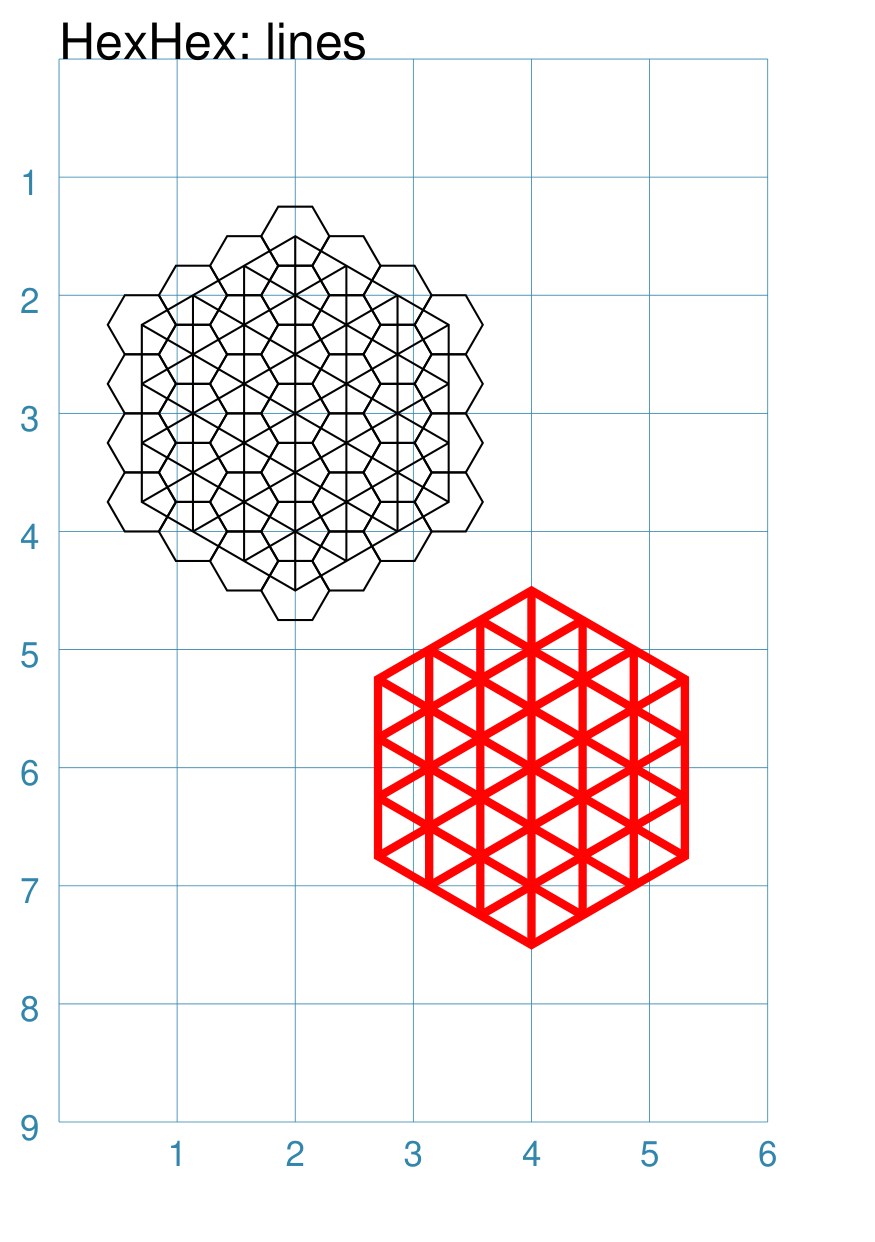
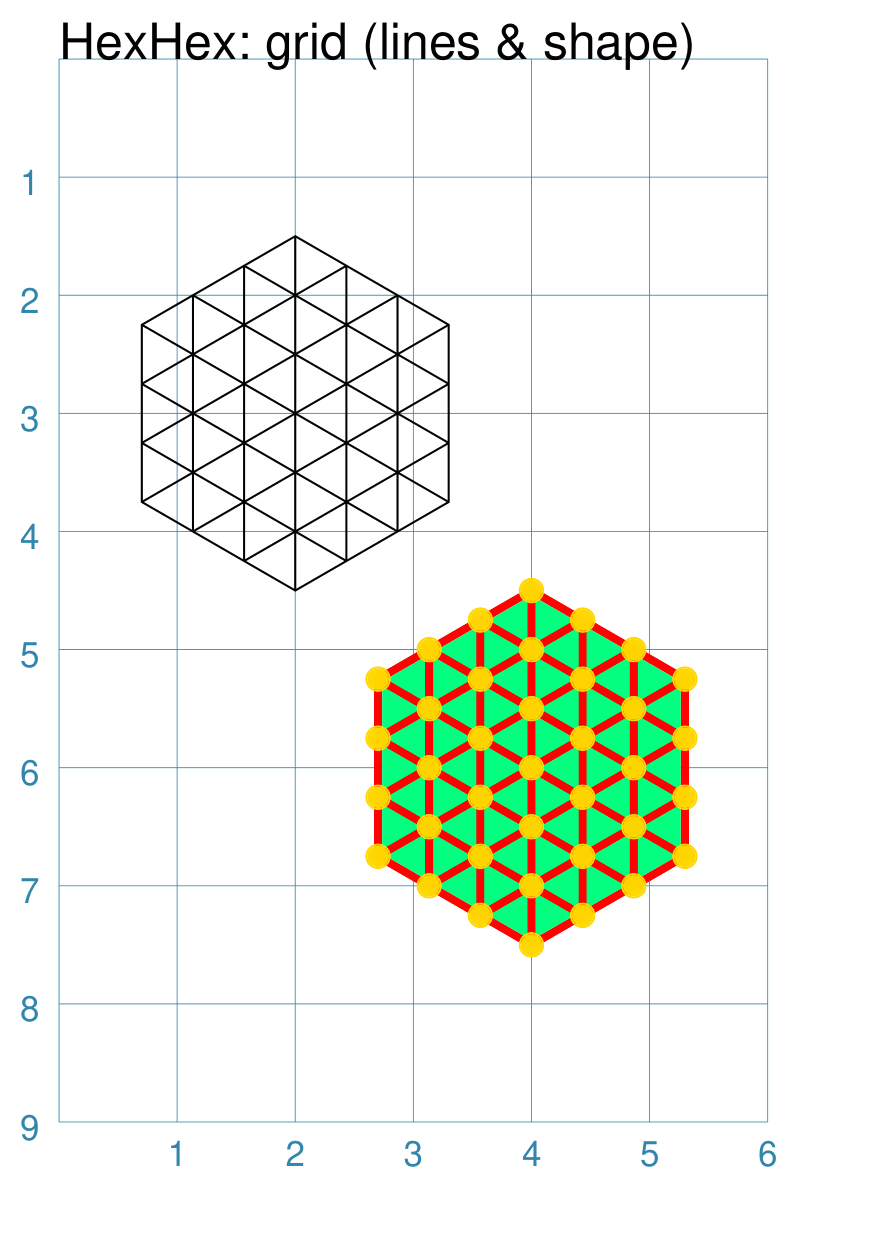
WIP on examples for HexHex

diff --git a/protograf/layouts.py b/protograf/layouts.py
@@ -304,23 +304,32 @@ class HexHexShape(BaseShape):
                 shapes = shapes_dict.get(ring)
                 if not shapes:
                     continue  # might not be shapes defined for a given ring
+                # check no. of shapes vs size of ring
+                if ring == 0 and len(shapes) != 1:
+                    feedback("There must only be one HexHex shape for ring#0", True)
+                if ring != 0 and len(shapes) != ring * 6:
+                    feedback(
+                        "There is a mismatch between the number of HexHex shapes"
+                        f" and the ring locations ({ring * 6}) for ring#{ring}",
+                        True,
+                    )
                 for key, the_shape in enumerate(shapes):
-                    if key > ring * 6:
-                        feedback(f"Too many HexHex shapes set ring#{ring}", True)
-                    loc = location_dict[(ring, key)]
-                    cx = location.centre.x + globals.margins.left_u
-                    cy = location.centre.y + globals.margins.top_u
+                    loc = location_dict.get((ring, key + 1))
+                    # print(f'/// {ring=} {key+1=} {loc.id=} {the_shape=}')
+                    cx = loc.centre.x + globals.margins.left_u
+                    cy = loc.centre.y + globals.margins.top_u
                     hex_id = key
                     if self.show_counter:
                         hex_id = loc.counter
                     if self.show_sequence:
                         hex_id = loc.id
-                    the_shape.draw(
-                        _abs_cx=cx,
-                        _abs_cy=cy,
-                        ID=hex_id,
-                        label_sequence=self.show_sequence or self.show_counter,
-                    )
+                    if the_shape:  # TODO - test for centre-able?
+                        the_shape.draw(
+                            _abs_cx=cx,
+                            _abs_cy=cy,
+                            ID=hex_id,
+                            label_sequence=self.show_sequence or self.show_counter,
+                        )
         elif self.shape:
             for key, location in enumerate(locations):
                 # print(f'/// {key=} {location.counter=} {location.id=}')
@@ -917,7 +926,7 @@ class HexHexLocations(VirtualShape):
             centre=Point(cxu, cyu),
             id=0,
             ring=0,
-            counter=0,
+            counter=1,
             spine=0,
             zone=0,
             orientation=self.ORIENTATION,
@@ -1395,7 +1404,7 @@ class RectangularLocations(VirtualLocations):
 
 class TriangularLocations(VirtualLocations):
     """
-    Common properties and methods to define  virtual triangular locations.
+    Common properties and methods to define virtual triangular locations.
     """
 
     def __init__(self, rows=2, cols=2, **kwargs):

diff --git a/examples/core/customised_hexhex.py b/examples/core/customised_hexhex.py
@@ -27,6 +27,17 @@ Text(common=txt, text="HexHex: default")
 HexHex(height=0.5)
 PageBreak()
 
+# ---- shape
+Blueprint()
+Text(common=txt, text="HexHex: shape")
+HexHex(
+    cx=3, cy=5,
+    height=1.2,
+    rings=3,
+    shape=hexagon(height=0.5, fill_stroke="tomato")
+)
+PageBreak()
+
 # ---- numbered
 Blueprint()
 Text(common=txt, text="HexHex: numbered")
@@ -45,24 +56,59 @@ PageBreak()
 
 # ---- lines
 Blueprint()
-Text(common=txt, text="HexHex: lines")
+Text(common=txt, text="HexHex: grid (lines & shape)")
 HexHex(
     cx=2, cy=3,
     height=0.5,
     rings=3,
     fill=None,
+    shape=None,  # grid only!
     grid_lines=True)
 HexHex(
     cx=4, cy=6,
     height=0.5,
     rings=3,
-    fill=None,
-    shape=None,  # grid only!
+    shape=circle(radius=0.1, fill_stroke="gold"),
     grid_lines=True,
+    grid_lines_fill="springgreen",
     grid_lines_stroke="red",
     grid_lines_stroke_width=2)
 PageBreak()
 
+# ---- layout
+Blueprint()
+Text(common=txt, text="HexHex: ring layout")
+
+wcirc = circle(radius=0.25, fill="white")
+pcirc = circle(radius=0.25, fill="palegreen")
+scirc = circle(radius=0.25, fill="springgreen")
+tcirc = circle(radius=0.25, fill="tomato")
+gcirc = circle(radius=0.25, fill="gold")
+bcirc = circle(radius=0.25, fill="royalblue")
+HexHex(
+   cx=2, cy=3, rings=4,
+   height=0.5,
+   shapes=[
+       (0, [wcirc]),
+       (1, [pcirc]*6),
+       (2, [scirc]*12),
+       (3, [tcirc]*3 + [None] + [gcirc]*5 + [None] + [bcirc]*5 + [None] + [tcirc]*2),]
+)
+
+Gr = hexagon(height=0.5, fill="darkgray")
+Br = hexagon(height=0.5, fill="chocolate")
+Yl = hexagon(height=0.5, fill="sandybrown")
+HexHex(
+   cx=4, cy=7, rings=4,
+   height=0.5,
+   shapes=[
+       (0, [Yl]),
+       (1, [Br, Gr]*3),
+       (2, [Gr, Yl, Br, Yl]*3),
+       (3, [Yl, Br, Gr, Yl, Gr, Br]*3),
+           (4, [Br, Gr, Yl, Br, Gr, Br, Yl, Gr]*3),]
+)
+PageBreak()
 
 # ---- END
 Text(common=txt, text="HexHex Grid END...")
@@ -74,6 +120,8 @@ Save(
      names=[
         None,
         "default",
+        "shape",
         "numbered",
         "lines",
+        "ring",
         None])
